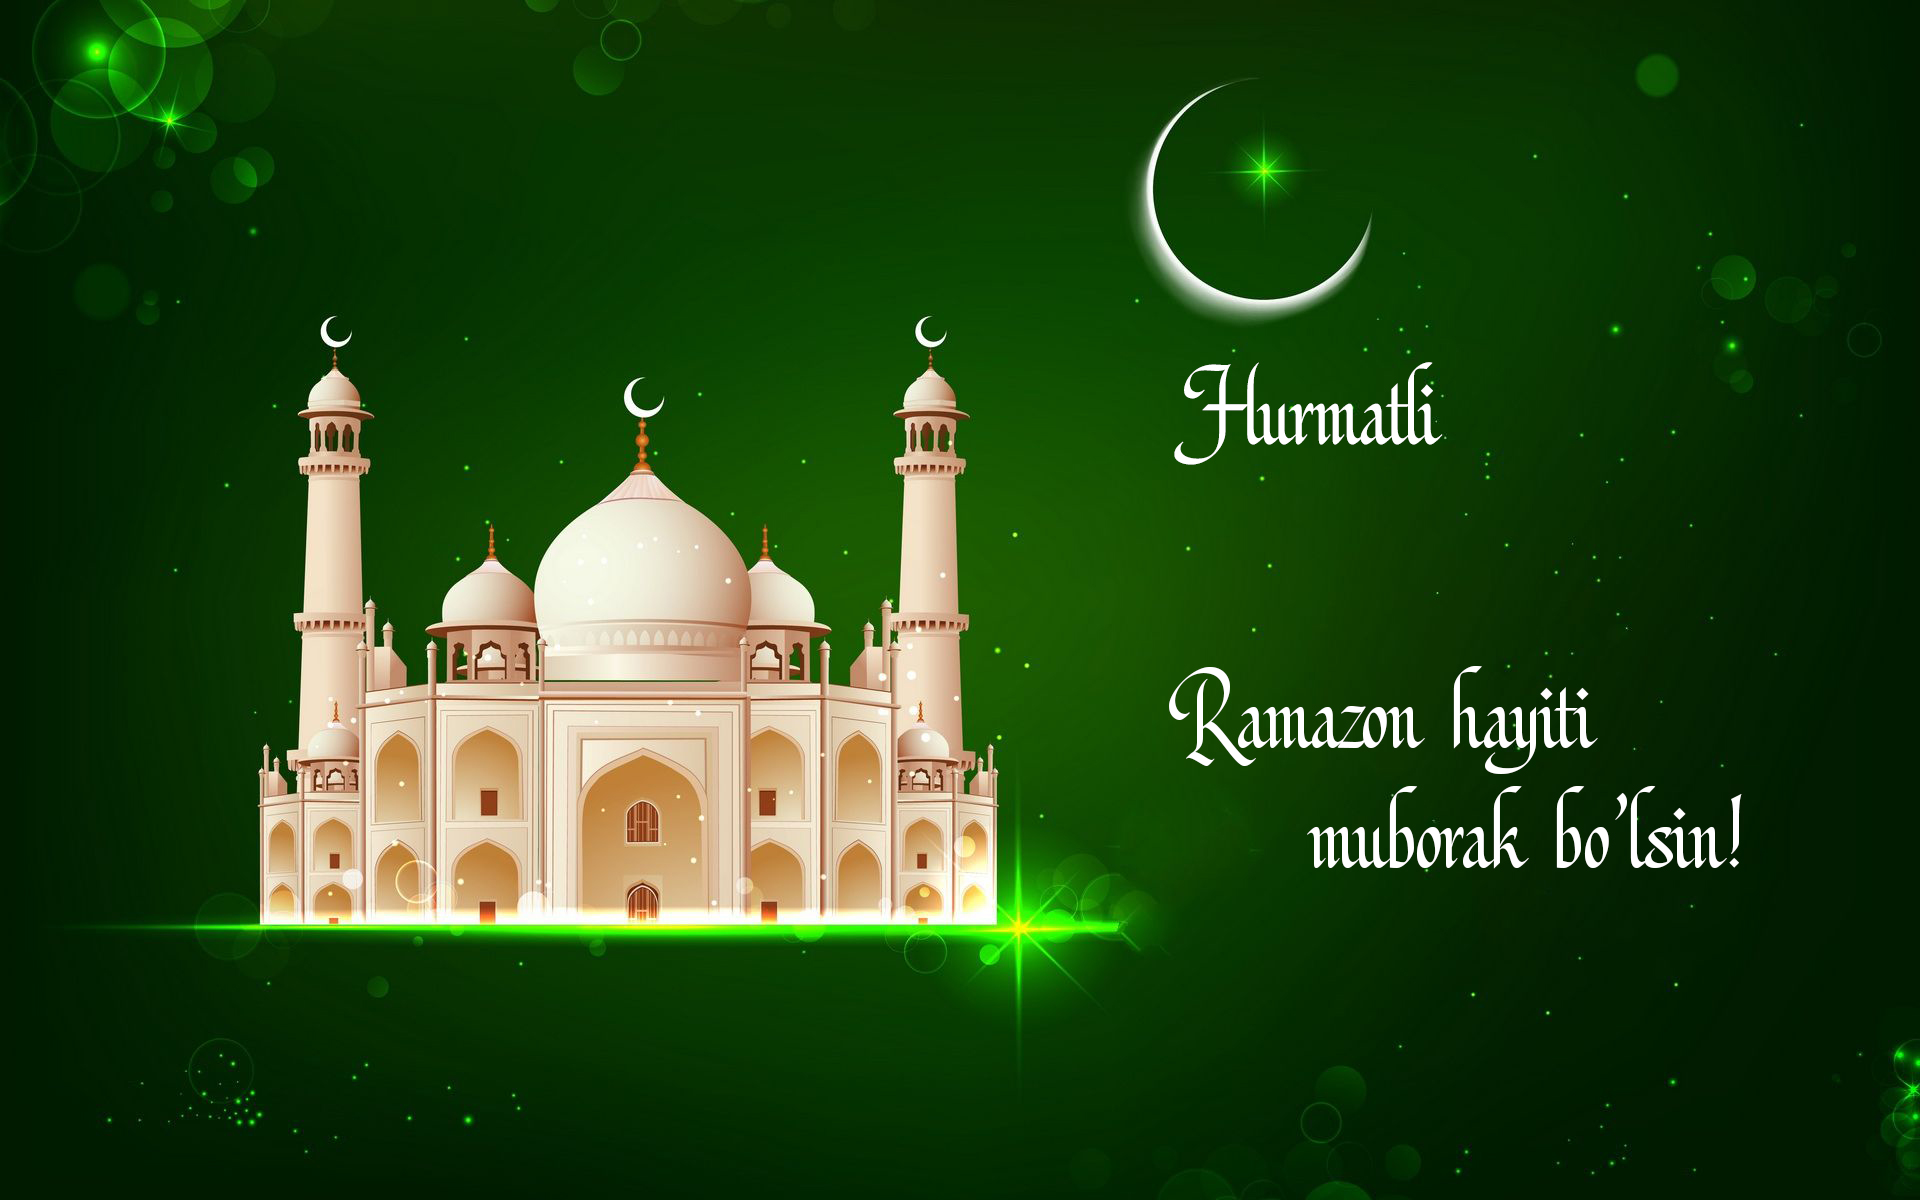
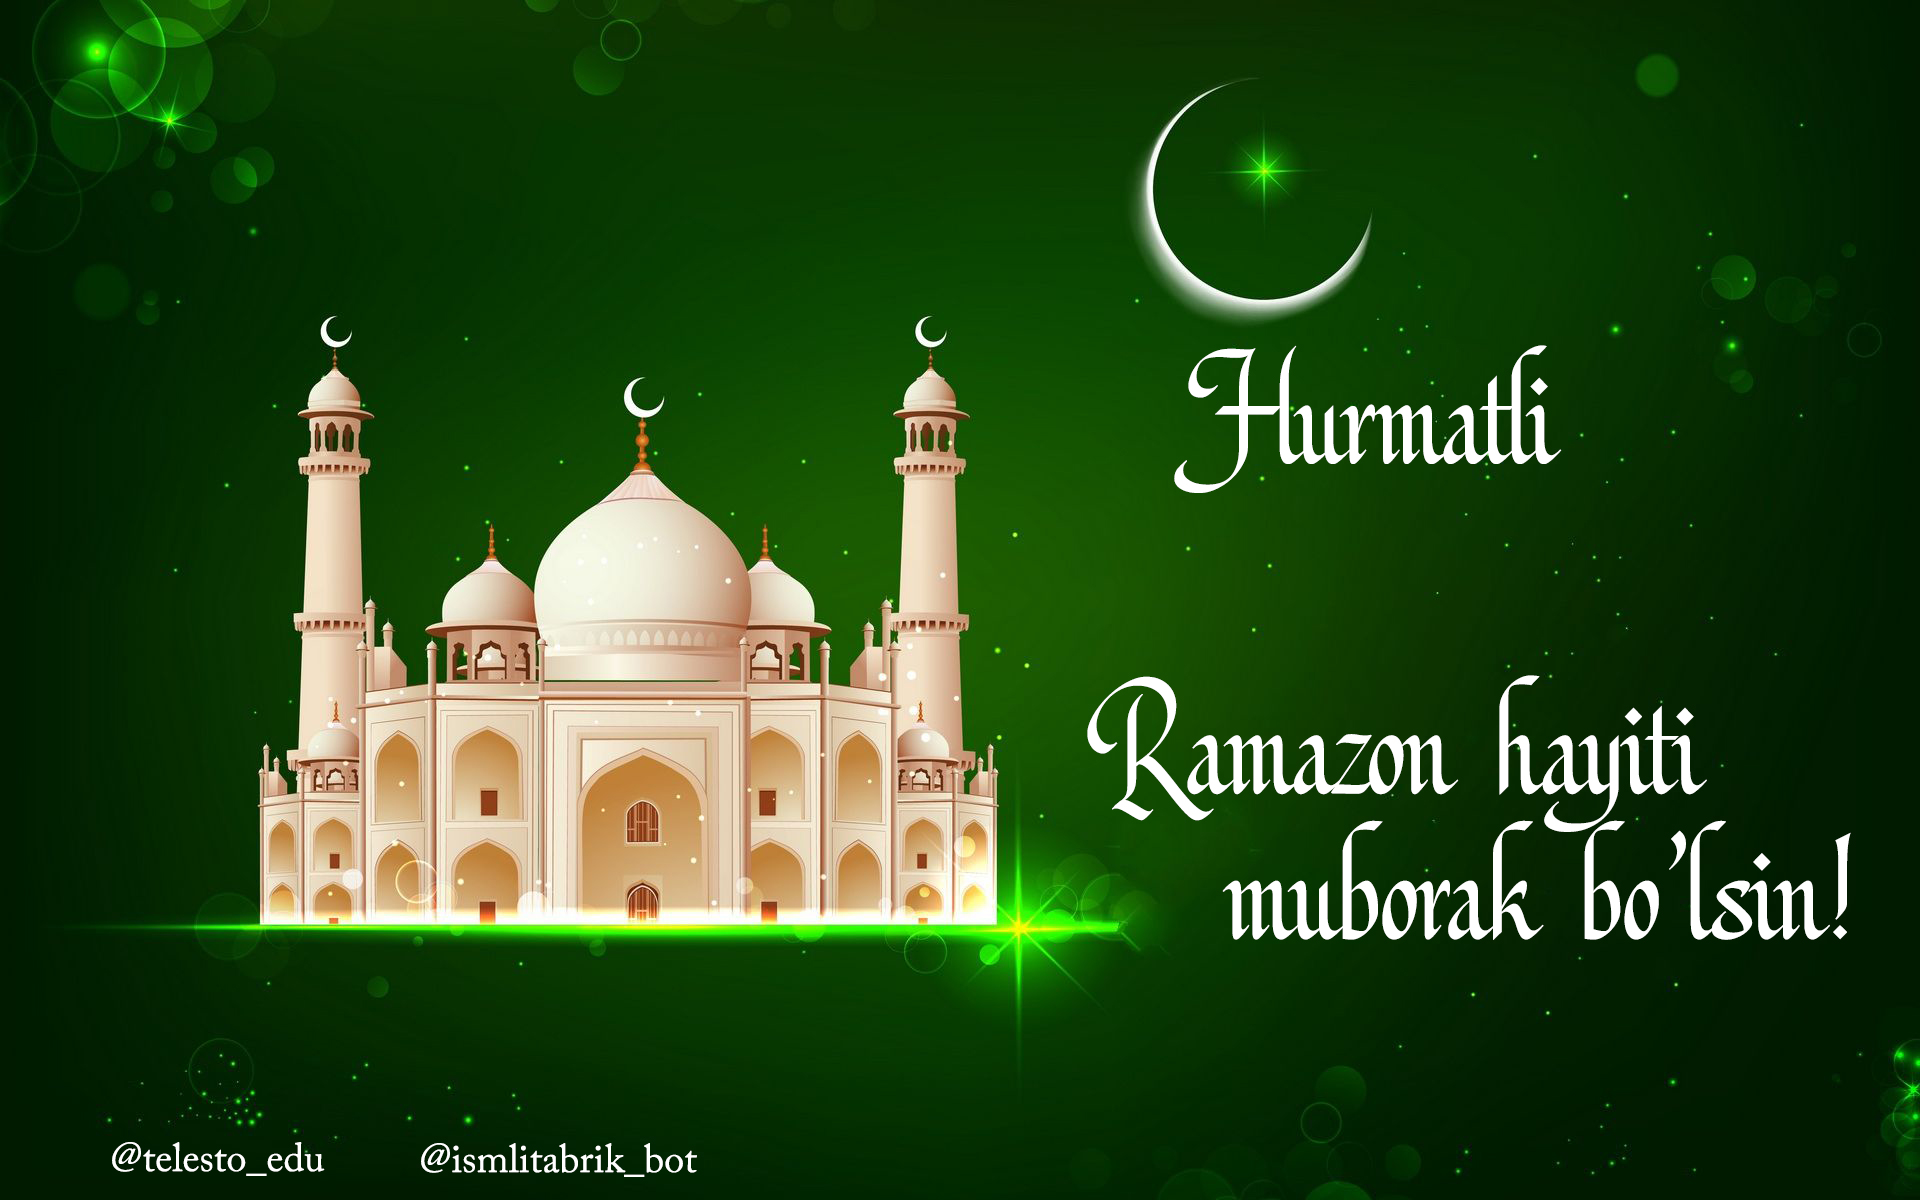
Some bugs fixed

diff --git a/tabrik.py b/tabrik.py
@@ -11,7 +11,7 @@ def generate_doc(first_name):
 
     img = Image.open('1.jpg')
 
-    font = ImageFont.truetype('font.ttf',110) # Загрузка шрифта и установка размера
+    font = ImageFont.truetype('font.ttf',130) # Загрузка шрифта и установка размера
     font_color = (250, 253, 15 ) # Shrift rangi
     first_name_pos = (1100,520) # Координаты первой буквы фамилии на картинке 1.jpg
     #second_name_pos = (505,300) # Координаты первой буквы имени
